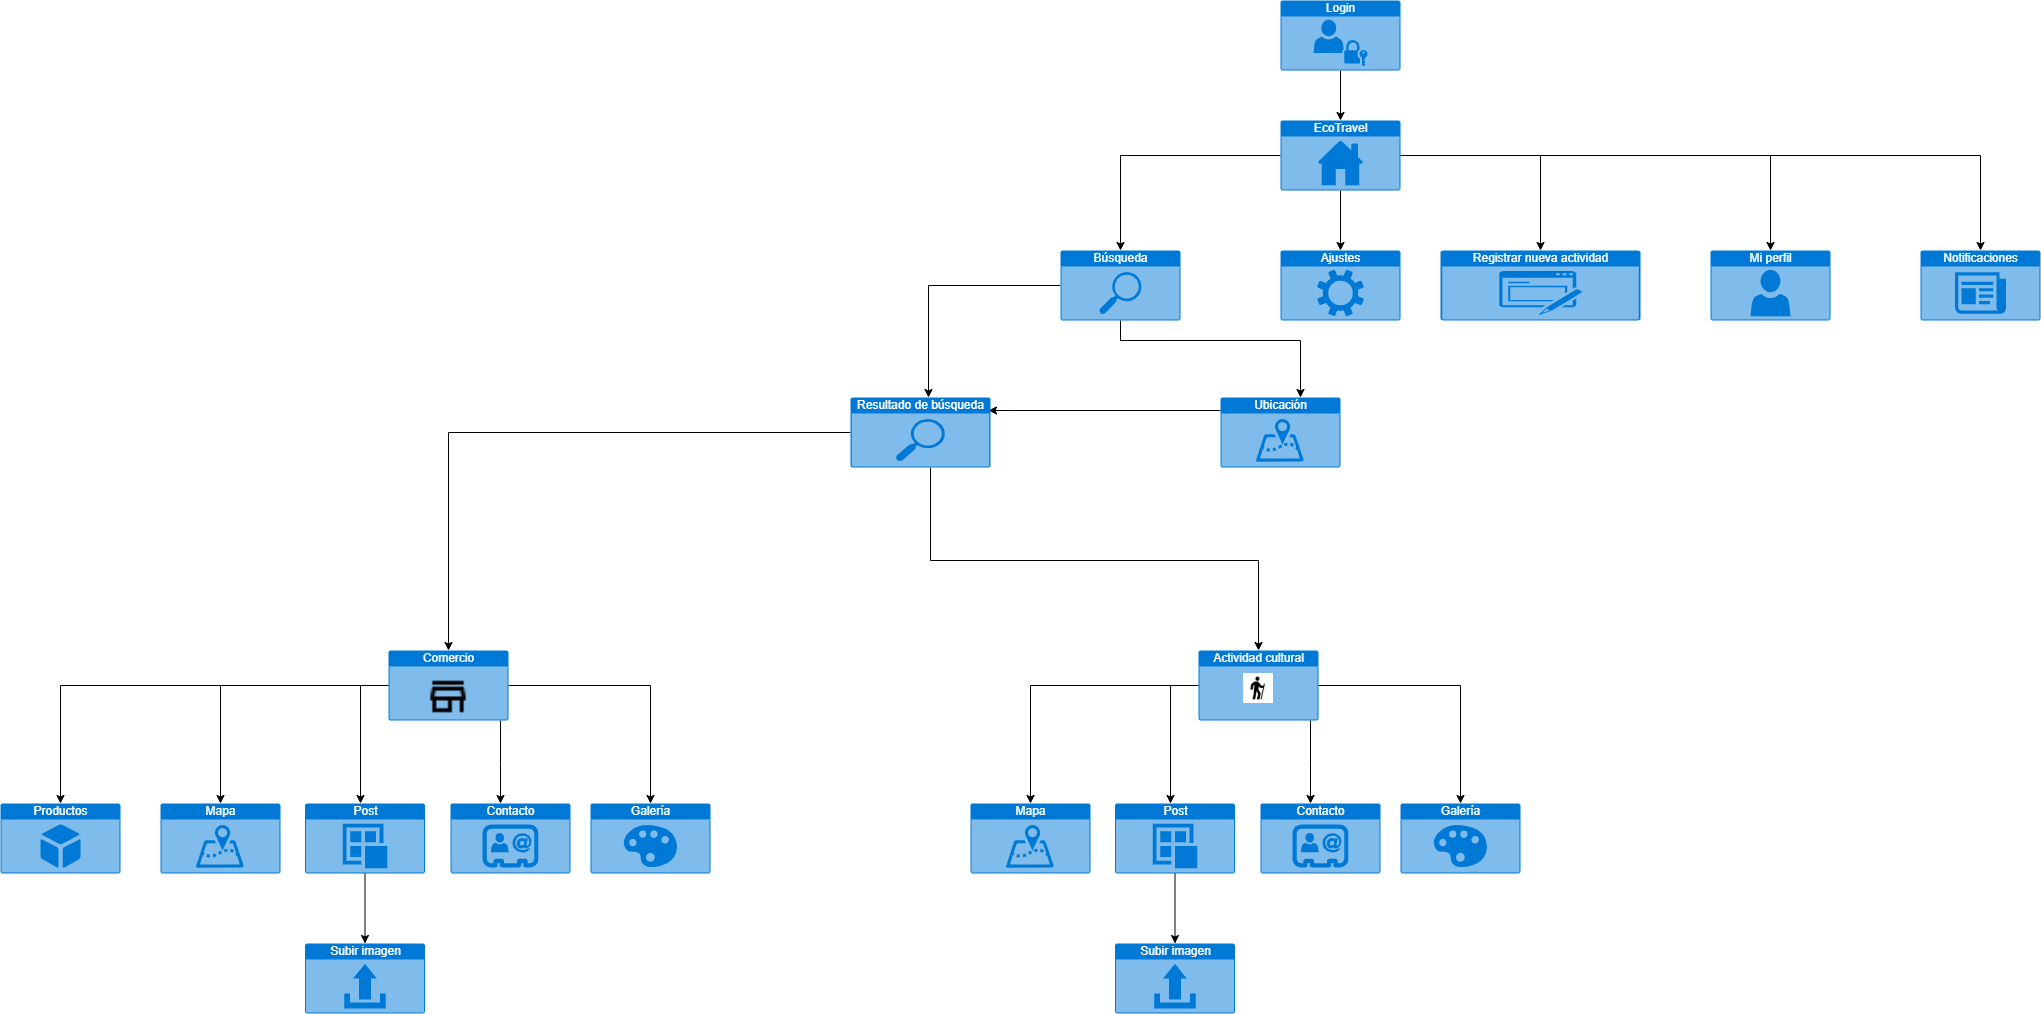
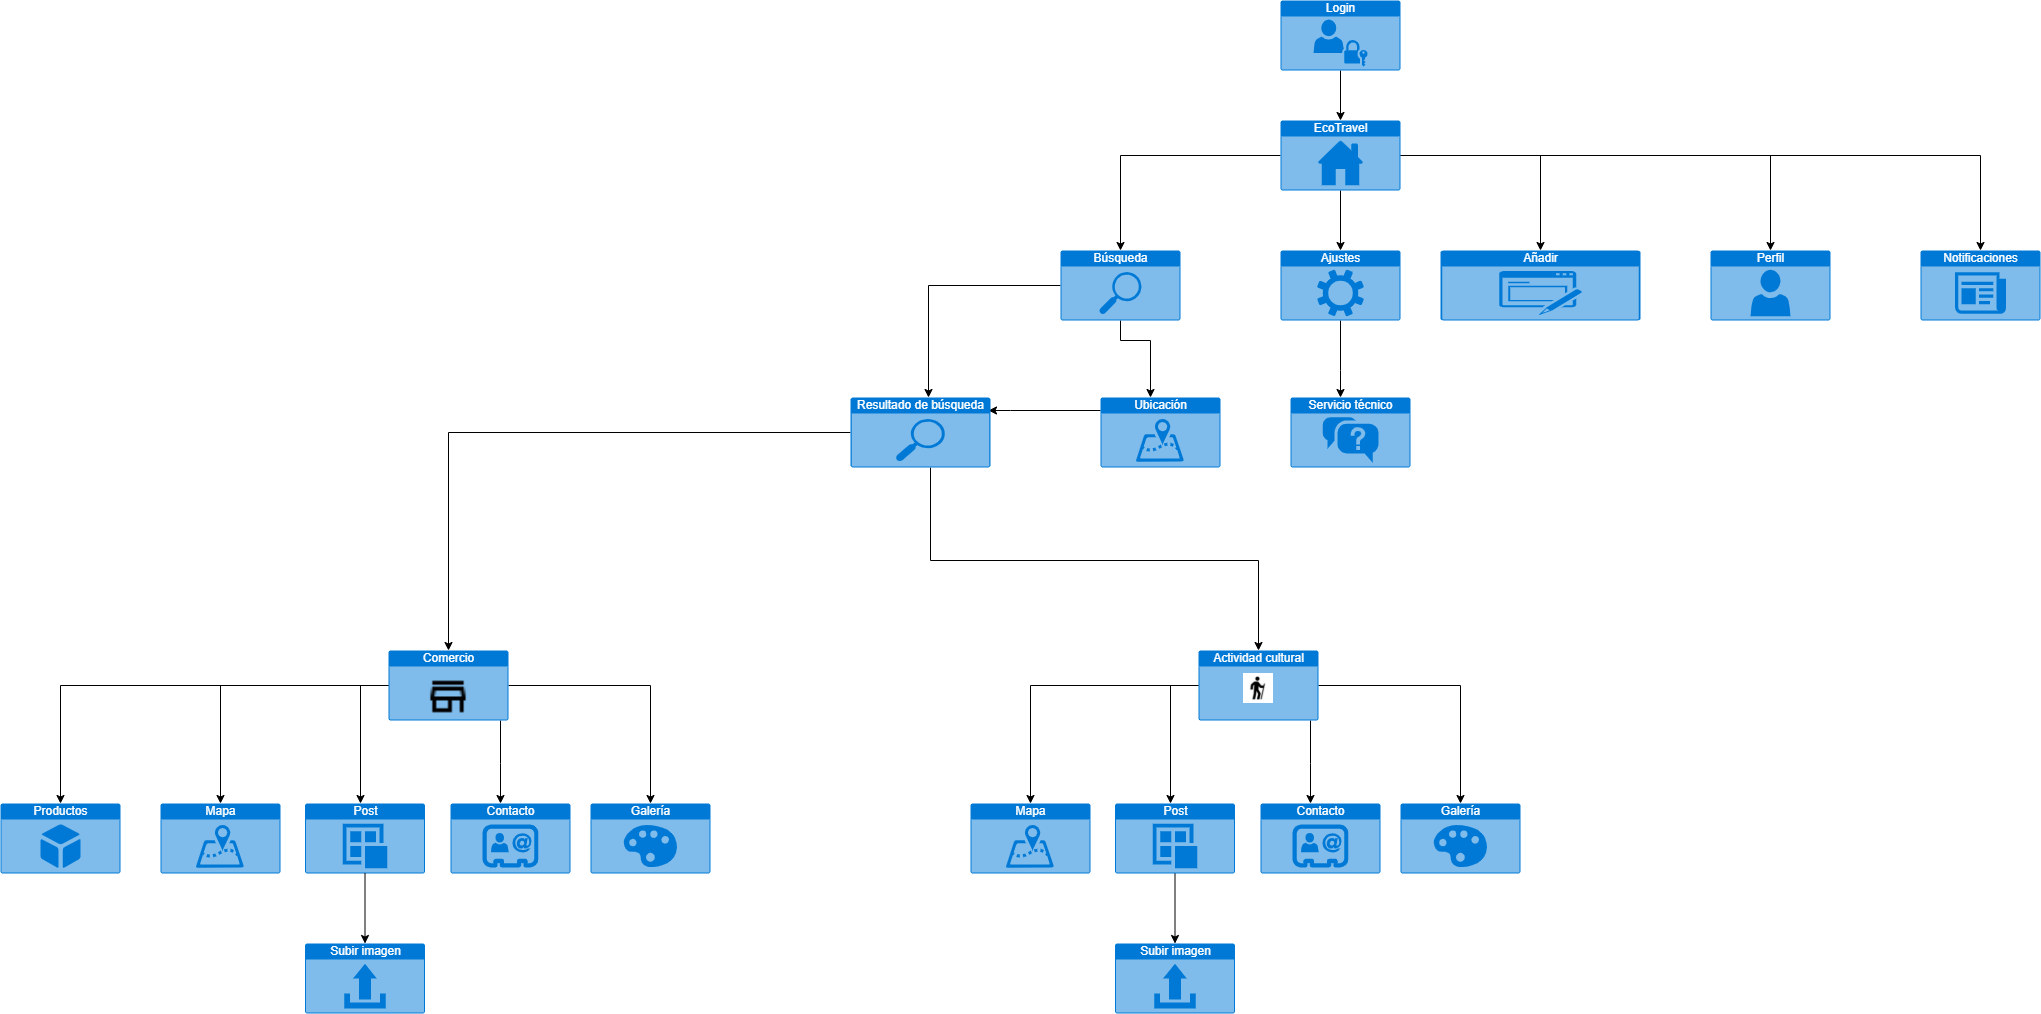
Update: feedback profesora

Changed region(s): [[0.5247, 0.3669, 0.7099, 0.4586], [0.7099, 0.2446, 0.8025, 0.2751]]

diff --git a/P2/README.md b/P2/README.md
@@ -29,7 +29,10 @@ Nuestra aplicación pretende que los usuarios puedan buscar comercios (restauran
 Hemos decidido elegir esta herramienta para definir correctamente a los grupos de usuarios en los que nos
 vamos a centrar y la funcionalidad que le vamos a ofrecer.
 
-![Task Matrix](Images/TaskMatrix.jpg)
+* Eco-traveller: se trata de un usuario que utiliza la aplicación para buscar nuevas experiencias (viajes, sitios para comer, actividades...), compartir las experiencias que ha vivido, subir nuevas (como excursiones, rutas, recomendaciones...) y valorar comercios registrados en la aplicación.
+* Pequeños comercios: se trata de un tipo de usuario especial porque debe de verificar su actividad comercial. Hemos usado el término pequeño porque queremos ayudar especialmente a este tipo de comercios.
+
+![Task Matrix](Images/TaskMatrix.png)
 
 ### ARQUITECTURA DE INFORMACIÓN
 
@@ -46,8 +49,9 @@ EcoTravel pretende crear una comunidad de viajeros que cumplan con nuestros valo
 | EcoTravel | Página principal de la aplicación. Resumen de los posts y navegación completa |
 | Búsqueda | Página de búsqueda de comercios, actividades, lugares... |
 | Ajustes | Página para configurar los ajustes de la aplicación |
-| Registrar nueva actividad | Página de formulario con la cual podemos añadir un nuevo comercio, una nueva actividad o nuevos productos a un comercio existente  |
-| Mi perfil | Página de perfil de usuario de la aplicación. En ella el usuario será capaz de modificar y ver su perfil de la aplicación|
+| Servicio técnico | Contactar con el servicio técnico
+| Añadir | Página de formulario con la cual podemos añadir un nuevo comercio, una nueva actividad o nuevos productos a un comercio existente  |
+| Perfil | Página de perfil de usuario de la aplicación. En ella el usuario será capaz de modificar y ver su perfil de la aplicación|
 | Notificaciones | Página que nos muestra las últimas notificaciones que recibe un usuario |
 | Resultado de búsqueda | Página que nos muestra toda la información necesaria de un comercio/actividad registrado en nuestra aplicación |
 | Comercio | Página que nos muestra toda la información necesaria de un comercio registrado en nuestra aplicación |
